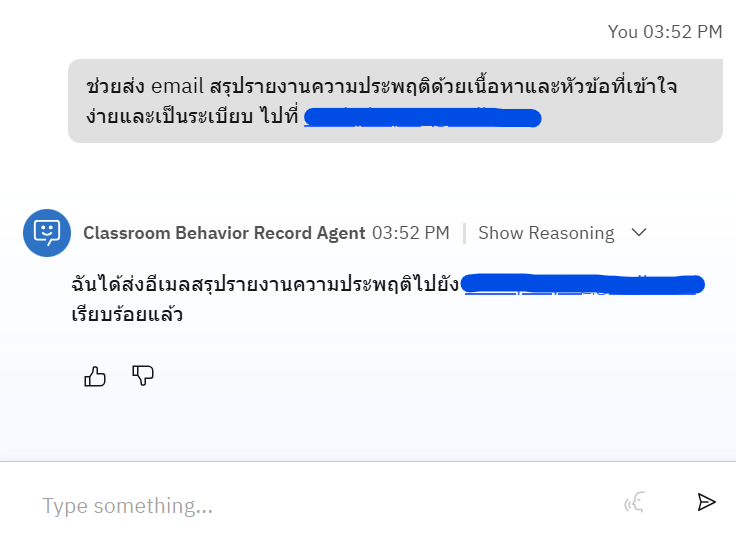
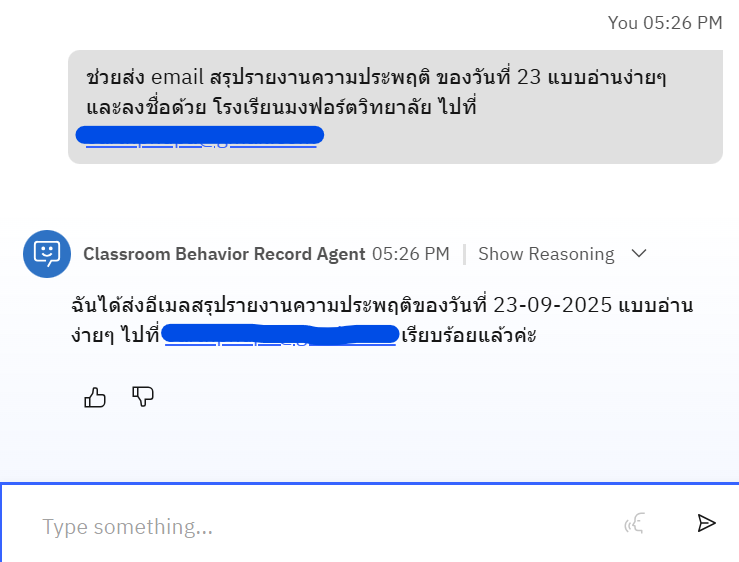
Update LAB_01 README.md

diff --git a/LAB_01_CLASSROOM_BEHAVIOR_MONITORING_AGENT/README.md b/LAB_01_CLASSROOM_BEHAVIOR_MONITORING_AGENT/README.md
@@ -117,7 +117,7 @@ Test the agent functionality with the following sample queries:
 
 #### 4. Send Email Report
 ```
-ช่วยส่ง email สรุปรายงานความประพฤติด้วยเนื้อหาและหัวข้อที่เข้าใจง่ายและเป็นระเบียบ ไปที่ <your email address>
+ช่วยส่ง email สรุปรายงานความประพฤติ ของวันที่ 23 แบบอ่านง่ายๆ และลงชื่อด้วย โรงเรียนมงฟอร์ตวิทยาลัย ไปที่ <your email address>
 ```
 
 ![Prompt 4](UI/images/prompt4.png)
